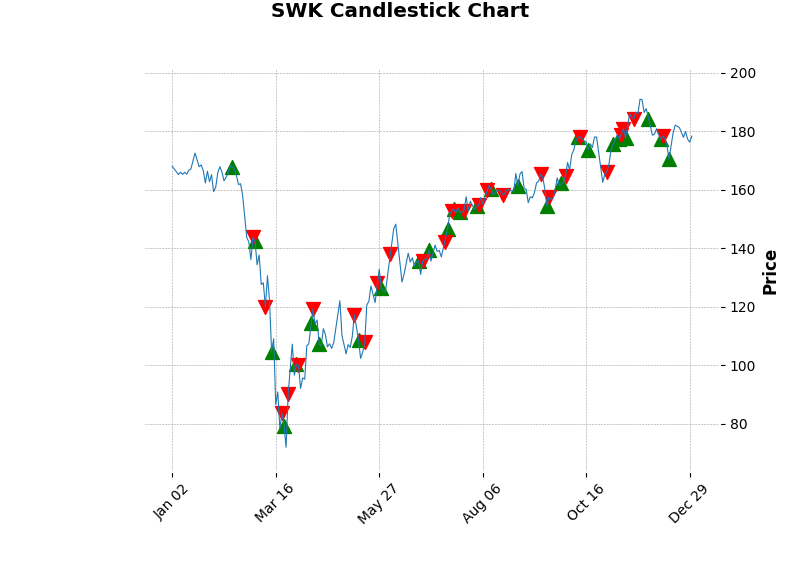
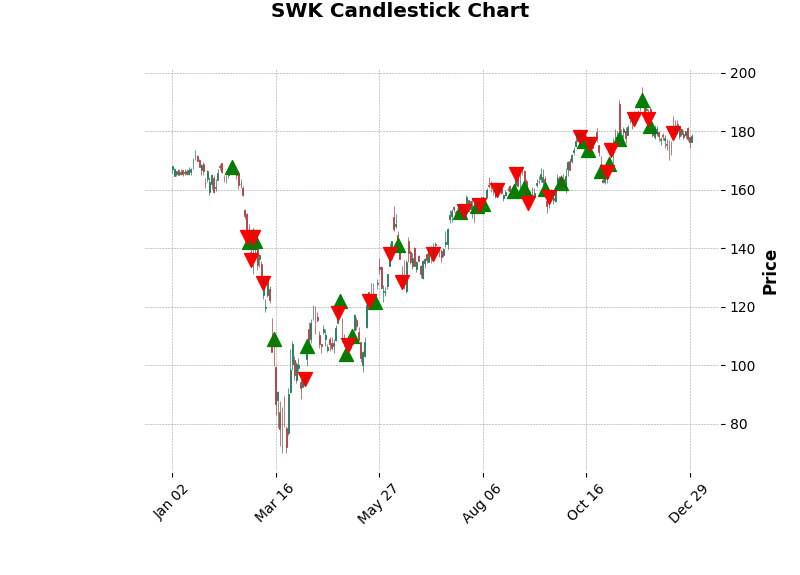
With percent Profit per stock

Changed region(s): [[0.2188, 0.1478, 0.875, 0.7687]]

diff --git a/static/main.js b/static/main.js
@@ -26,6 +26,14 @@ document.addEventListener('DOMContentLoaded', function() {
         .then((data) => {
             const capitalElement = document.getElementById("capital");
             capitalElement.textContent = `Capital: $${data.new_capital.toFixed(2)}`;
+
+            const percentageProfitElement = document.getElementById("percentage-profit");
+            percentageProfitElement.textContent = `Percentage Profit: ${data.percentage_profit.toFixed(2)}%`;
+
+            document.querySelectorAll("img").forEach((img) => {
+                img.src = img.src.split("?")[0] + "?" + new Date().getTime();
+            });
+
             // Reload the images to show the updated charts
             document.querySelectorAll("img").forEach((img) => {
             img.src = img.src.split("?")[0] + "?" + new Date().getTime();

diff --git a/templates/index.html b/templates/index.html
@@ -1,5 +1,6 @@
 <!DOCTYPE html>
 <html lang="en">
+
 <head>
     <meta charset="UTF-8">
     <script src="static/main.js"></script>
@@ -7,6 +8,7 @@
     <title>Stock Charts</title>
     <link rel="stylesheet" href="static/styles.css">
 </head>
+
 <body>
     <h1>Stock Chart</h1>
     <form method="POST">
@@ -39,6 +41,7 @@
 
         <input type="submit" value="Generate Charts">
         <p id="capital">Capital: $10,000</p>
+        <p id="percentage-profit">Percentage Profit: 0%</p>
     </form>
     <h2>Combined Stock Chart</h2>
     <img src="static/combined_stock_chart.png" alt="Combined Stock Chart">
@@ -49,5 +52,5 @@
     <img src="static/second_stock_chart.png" alt="Second Stock Chart">
 
 </body>
-</html>
 
+</html>

diff --git a/backtesting.py b/backtesting.py
@@ -5,12 +5,22 @@ class Backtesting:
     def __init__(self, csv_file):
         self.data = pd.read_csv(csv_file, index_col=0, parse_dates=True)
         self.events = []
+        self.total_bought = 0  
+        self.total_sold = 0    
 
-    def buy(self, index, price, stock):
-        self.events.append((index, "buy", price, stock))
+    def buy(self, index, price, stock, shares=1):
+        self.events.append((index, "buy", price, stock, shares))
+        self.total_bought += price * shares
 
-    def sell(self, index, price, stock):
-        self.events.append((index, "sell", price, stock))
+    def sell(self, index, price, stock, shares=1):
+        self.events.append((index, "sell", price, stock, shares))
+        self.total_sold += price * shares
+
+
+    def percentage_gain(self):
+        if self.total_bought == 0:
+            return 0
+        return ((self.total_sold - self.total_bought) / self.total_bought) * 100
 
     def basic_strategy(self, stock, buy_threshold, sell_threshold):
         data = self.data[[f'{stock} Open', f'{stock} High', f'{stock} Low', f'{stock} Close']]
@@ -33,7 +43,7 @@ class Backtesting:
 
         return profit
 
-    def pairs_trading_strategy(self, stock1, stock2, entry_threshold, exit_threshold):
+    def pairs_trading_strategy(self, stock1, stock2, entry_threshold, exit_threshold, shares=10):
         data1 = self.data[[f'{stock1} Open', f'{stock1} High', f'{stock1} Low', f'{stock1} Close']]
         data1.columns = ['Open1', 'High1', 'Low1', 'Close1']
 
@@ -53,30 +63,31 @@ class Backtesting:
                 position = 1
                 buy_price1 = row['Close1']
                 buy_price2 = row['Close2']
-                self.buy(index, buy_price1, stock1)
-                self.sell(index, buy_price2, stock2)
+                self.buy(index, buy_price1, stock1, shares)
+                self.sell(index, buy_price2, stock2, shares)
             elif row['ZScore'] > entry_threshold and position == 0:
                 position = -1
                 buy_price1 = row['Close1']
                 buy_price2 = row['Close2']
-                self.sell(index, buy_price1, stock1)
-                self.buy(index, buy_price2, stock2)
+                self.sell(index, buy_price1, stock1, shares)
+                self.buy(index, buy_price2, stock2, shares)
             elif position == 1 and row['ZScore'] > -exit_threshold:
                 position = 0
                 sell_price1 = row['Close1']
                 sell_price2 = row['Close2']
-                profit += (sell_price1 - buy_price1) - (sell_price2 - buy_price2)
-                self.sell(index, sell_price1, stock1)
-                self.buy(index, sell_price2, stock2)
+                profit += (sell_price1 - buy_price1) * shares - (sell_price2 - buy_price2) * shares
+                self.sell(index, sell_price1, stock1, shares)
+                self.buy(index, sell_price2, stock2, shares)
             elif position == -1 and row['ZScore'] < exit_threshold:
                 position = 0
                 sell_price1 = row['Close1']
                 sell_price2 = row['Close2']
-                profit += (buy_price1 - sell_price1) - (buy_price2 - sell_price2)
-                self.buy(index, sell_price1, stock1)
-                self.sell(index, sell_price2, stock2)
+                profit += (buy_price1 - sell_price1) * shares - (buy_price2 - sell_price2) * shares
+                self.buy(index, sell_price1, stock1, shares)
+                self.sell(index, sell_price2, stock2, shares)
 
         return profit
+
 
     def get_events(self, stock=None):
         if stock is not None:

diff --git a/main.py b/main.py
@@ -42,7 +42,12 @@ def index():
         initial_capital = 10000
         new_capital = initial_capital + profit
 
-        return jsonify({'new_capital': new_capital})
+        # Calculate the percentage profit
+        percentage_profit = backtesting_instance.percentage_gain()
+
+        return jsonify({'new_capital': new_capital, 'percentage_profit': percentage_profit})
+
+
 
     return render_template("index.html")
 
